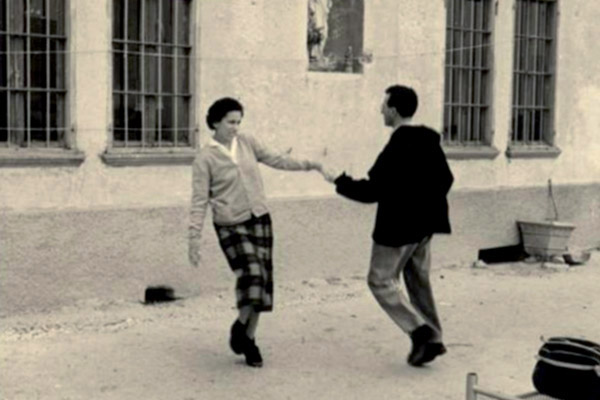
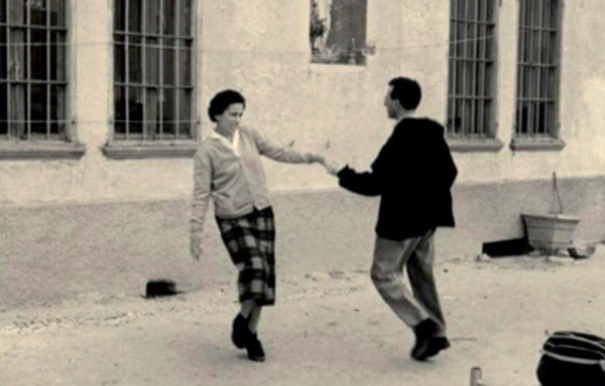
Fixed carousel images

diff --git a/TripleHelixProject/src/main/resources/static/index.html b/TripleHelixProject/src/main/resources/static/index.html
@@ -167,7 +167,7 @@
                 <a href="./carousel-info/carousel1.html">Scopri di più</a>
               </button>
             </div>
-            <img src="./assets/img/sentiero_cascina_caccia.jpg" alt="Sentiero che conduce alla Cascina Caccia" />
+            <img src="./assets/img/sentiero-cascina-caccia.jpg" alt="Sentiero che conduce alla Cascina Caccia" />
           </div>
           <div class="carousel-item" aria-label="Laboratorio su Bruno Caccia">
             <div class="carousel-intro">
@@ -176,7 +176,7 @@
                 <a href="./carousel-info/carousel2.html">Scopri di più</a>
               </button>
             </div>
-            <img src="./assets/img/bruno-caccia.jpg" alt="Immagine di Bruno Caccia" />
+            <img src="./assets/img/bruno-caccia.jpg" alt="Bruno Caccia" />
           </div>
           <div class="carousel-item">
             <div class="carousel-intro">
@@ -185,7 +185,7 @@
                 <a href="./carousel-info/carousel3.html">Scopri di più</a>
               </button>
             </div>
-            <img src="./assets/img/educazione-3.jpg" alt="" />
+            <img src="./assets/img/regolegalita.jpg" alt="Educazione in Cascina Caccia" />
           </div>
           <div class="carousel-item">
             <div class="carousel-intro">
@@ -194,7 +194,7 @@
                 <a href="./carousel-info/carousel4.html">Scopri di più</a>
               </button>
             </div>
-            <img src="./assets/img/party-bene.jpg" alt="" />
+            <img src="./assets/img/beni-confiscati.jpg" alt="Catena e lucchetto per i beni confiscati" />
           </div>
           <div class="carousel-item">
             <div class="carousel-intro">
@@ -203,7 +203,7 @@
                 <a href="./carousel-info/carousel5.html">Scopri di più</a>
               </button>
             </div>
-            <img src="./assets/img/party-bene.jpg" alt="" />
+            <img src="./assets/img/tavolo-imbandito.jpg" alt="Tavolo imbandito di Cascina Caccia" />
           </div>
           <div class="carousel-item">
             <div class="carousel-intro">
@@ -212,7 +212,7 @@
                 <a href="./carousel-info/carousel6.html">Scopri di più</a>
               </button>
             </div>
-            <img src="./assets/img/party-bene.jpg" alt="" />
+            <img src="./assets/img/miele-e-api.jpg" alt="Miele di cascina caccia" />
           </div>
           <div class="carousel-item">
             <div class="carousel-intro">
@@ -221,7 +221,7 @@
                 <a href="./carousel-info/carousel7.html">Scopri di più</a>
               </button>
             </div>
-            <img src="./assets/img/party-bene.jpg" alt="" />
+            <img src="./assets/img/ricicliamo.jpg" alt="Oggetti riciclati di Cascina Caccia" />
           </div>
           <div class="carousel-item">
             <div class="carousel-intro">
@@ -230,7 +230,7 @@
                 <a href="./carousel-info/carousel8.html">Scopri di più</a>
               </button>
             </div>
-            <img src="./assets/img/party-bene.jpg" alt="" />
+            <img src="./assets/img/carla-e-bruno-caccia.jpg" alt="Carla e Bruno Caccia che ballano" />
           </div>
           <div class="carousel-item">
             <div class="carousel-intro">
@@ -239,7 +239,7 @@
                 <a href="./carousel-info/carousel9.html">Scopri di più</a>
               </button>
             </div>
-            <img src="./assets/img/party-bene.jpg" alt="" />
+            <img src="./assets/img/soldi-finti.jpg" alt="Soldi finti" />
           </div>
           <div class="carousel-item">
             <div class="carousel-intro">
@@ -248,7 +248,7 @@
                 <a href="./carousel-info/carousel10.html">Scopri di più</a>
               </button>
             </div>
-            <img src="./assets/img/party-bene.jpg" alt="" />
+            <img src="./assets/img/riunione-laboratorio.jpg" alt="Riunione in cerchio durante il laboratorio di 'Chi non gioca vince'" />
           </div>
         </div>
         <!-- Punti per il carousel -->

diff --git a/TripleHelixProject/src/main/resources/static/carousel-info/carousel10.html b/TripleHelixProject/src/main/resources/static/carousel-info/carousel10.html
@@ -26,7 +26,7 @@
     <header>
       <!-- Chiedere significato del logo per attributo alt -->
 
-      <img src="../assets/img/educazione-2.jpg" alt="Educazione dei ragazzi" />
+      <img src="../assets/img/riunione-laboratorio.jpg" alt="Riunione in cerchio durante il laboratorio di 'Chi non gioca vince'" />
     </header>
 
     <main>

diff --git a/TripleHelixProject/src/main/resources/static/carousel-info/carousel4.html b/TripleHelixProject/src/main/resources/static/carousel-info/carousel4.html
@@ -27,7 +27,7 @@
     <header>
       <!-- Chiedere significato del logo per attributo alt -->
 
-      <img src="../assets/img/sentiero_cascina_caccia.jpg" alt="Sentiero di cascina caccia" />
+      <img src="../assets/img/beni-confiscati.jpg" alt="Catene e lucchetto dei beni confiscati" />
     </header>
 
     <main>

diff --git a/TripleHelixProject/src/main/resources/static/carousel-info/carousel5.html b/TripleHelixProject/src/main/resources/static/carousel-info/carousel5.html
@@ -26,7 +26,7 @@
     <header>
       <!-- Chiedere significato del logo per attributo alt -->
 
-      <img src="../assets/img/sentiero_cascina_caccia.jpg" alt="Sentiero di cascina caccia" />
+      <img src="../assets/img/tavolo-imbandito.jpg" alt="Tavolo imbandito di Cascina Caccia" />
     </header>
 
     <main>

diff --git a/TripleHelixProject/src/main/resources/static/carousel-info/carousel1.html b/TripleHelixProject/src/main/resources/static/carousel-info/carousel1.html
@@ -26,7 +26,7 @@
     <header>
       <!-- Chiedere significato del logo per attributo alt -->
 
-      <img src="../assets/img/sentiero_cascina_caccia.jpg" alt="Sentiero di cascina caccia" />
+      <img src="../assets/img/sentiero-cascina-caccia.jpg" alt="Sentiero di cascina caccia" />
     </header>
 
     <main>

diff --git a/TripleHelixProject/src/main/resources/static/carousel-info/carousel7.html b/TripleHelixProject/src/main/resources/static/carousel-info/carousel7.html
@@ -26,7 +26,7 @@
     <header>
       <!-- Chiedere significato del logo per attributo alt -->
 
-      <img src="../assets/img/sentiero_cascina_caccia.jpg" alt="Sentiero di cascina caccia" />
+      <img src="../assets/img/ricicliamo.jpg" alt="Oggetti riciclati in Cascina Caccia" />
     </header>
 
     <main>

diff --git a/TripleHelixProject/src/main/resources/static/carousel-info/carousel8.html b/TripleHelixProject/src/main/resources/static/carousel-info/carousel8.html
@@ -26,7 +26,7 @@
     <header>
       <!-- Chiedere significato del logo per attributo alt -->
 
-      <img src="../assets/img/carla-e-bruno-caccia.jpg" alt="Carla e Bruno caccia" />
+      <img src="../assets/img/carla-e-bruno-caccia.jpg" alt="Carla e Bruno caccia che ballano" />
     </header>
 
     <main>

diff --git a/TripleHelixProject/src/main/resources/static/carousel-info/carousel3.html b/TripleHelixProject/src/main/resources/static/carousel-info/carousel3.html
@@ -26,7 +26,7 @@
     <header>
       <!-- Chiedere significato del logo per attributo alt -->
 
-      <img src="../assets/img/educazione-3.jpg" alt="educazione: regole e legalità" />
+      <img src="../assets/img/regolegalita.jpg" alt="educazione: regole e legalità" />
     </header>
 
     <main>

diff --git a/TripleHelixProject/src/main/resources/static/carousel-info/carousel6.html b/TripleHelixProject/src/main/resources/static/carousel-info/carousel6.html
@@ -26,7 +26,7 @@
     <header>
       <!-- Chiedere significato del logo per attributo alt -->
 
-      <img src="../assets/img/api_cascina_caccia.jpg" alt="Api di cascina caccia" />
+      <img src="../assets/img/miele-e-api.jpg" alt="Api di cascina caccia" />
     </header>
 
     <main>

diff --git a/TripleHelixProject/src/main/resources/static/carousel-info/carousel9.html b/TripleHelixProject/src/main/resources/static/carousel-info/carousel9.html
@@ -26,7 +26,7 @@
     <header>
       <!-- Chiedere significato del logo per attributo alt -->
 
-      <img src="../assets/img/carla-e-bruno-caccia.jpg" alt="Carla e Bruno caccia" />
+      <img src="../assets/img/soldi-finti.jpg" alt="Soldi finti" />
     </header>
 
     <main>
